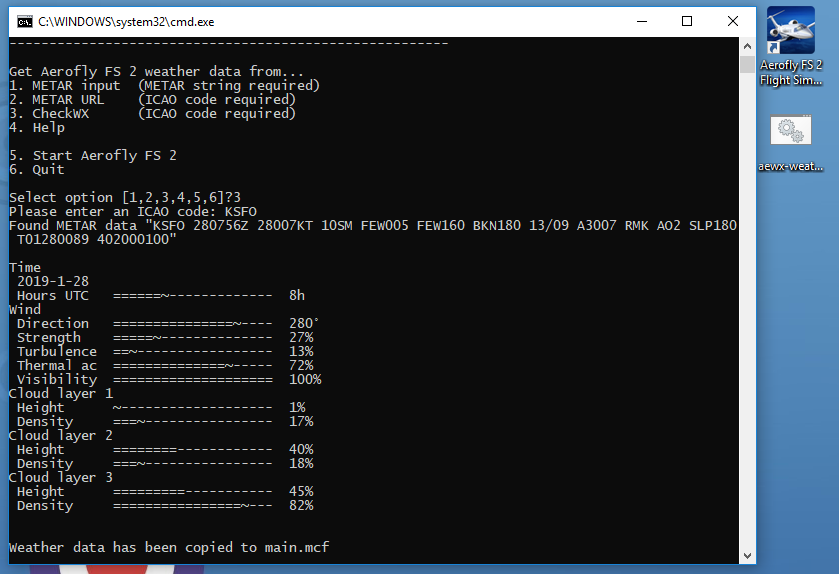
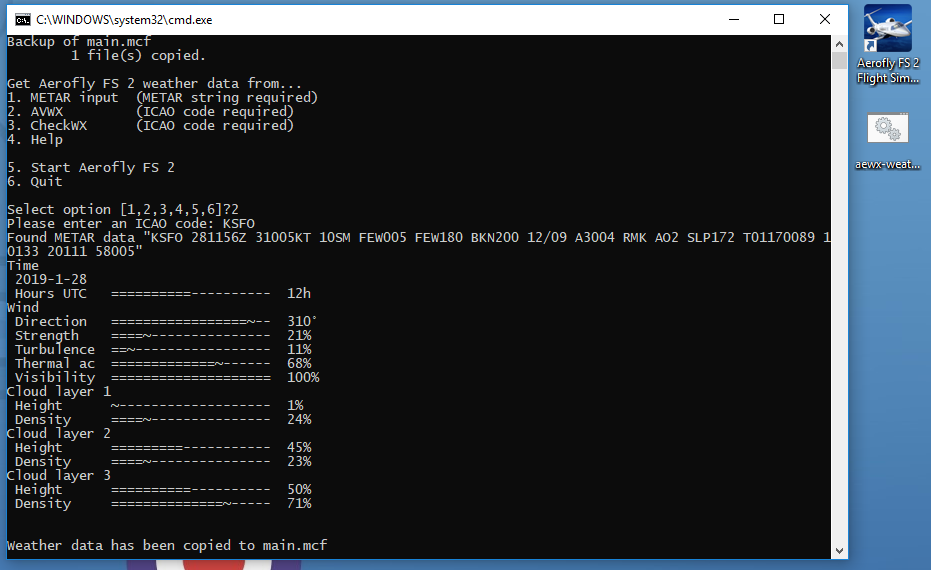
`aewx-metar-fetch` & `aewx-metar-url` CLI commands accept common JSON patterns
...making it compatible with [AVWX](https://avwx.rest/)

Changed region(s): [[0.0, 0.0, 0.9917, 1.0]]

diff --git a/lib/main.js b/lib/main.js
@@ -67,6 +67,23 @@ const main = function(verbose = false) {
   };
 
   /**
+   * Search in JSON response for object keys like 'raw', 'raw_text', or 'Raw-Report' and return their value.
+   * @param   {String} rawData which will be parsed as JSON
+   * @returns {String} Raw METAR string if found
+   */
+  _private.getRawMetarFromJsonObject = function(rawData) {
+    let jsonReply = JSON.parse(rawData);
+    if (jsonReply) {
+      return jsonReply.raw
+        || jsonReply.raw_text
+        || jsonReply['Raw-Report']
+        || ''
+      ;
+    }
+    return '';
+  };
+
+  /**
    * @param   {Object}  aeroflyObject dito
    * @returns {Boolean} true
    */
@@ -198,6 +215,9 @@ const main = function(verbose = false) {
         response.on('end', () => {
           if (verbose) {
             console.log('Got response from URL ' + url + "\n", rawData.trim(), "\n");
+          }
+          if (options.response && options.response === 'json') {
+            rawData = _private.getRawMetarFromJsonObject(rawData);
           }
           return _public.fromString(rawData, destinationFile, options);
         });

diff --git a/README.md b/README.md
@@ -35,8 +35,8 @@ You will need a copy of IPACS' Aerofly FS 2 which has run at least once. This cr
 Click on the desktop file called `aewx-weather.bat` / `aewx-weather.sh` and follow the on-screen instructions. Basically it offers you to:
 
 * Set weather data from a [METAR weather string](docs/metar.md).
-* Fetch a METAR weather string from an URL and set the weather accordingly.
-* Fetch weather data from the [CheckWX API](https://www.checkwx.com/) and set the weather accordingly.
+* Fetch weather data from the [AVWX API](https://avwx.rest/) and set the weather accordingly.
+* Fetch weather data from the [CheckWX API](https://www.checkwx.com/) (API key required) and set the weather accordingly.
 
 The desktop batch file also contains some settings for the tools. If you want to edit the desktop batch file, just right click on it and select "Edit". There is a small [guide on how to work with the command line tools contained in the desktop batch file](docs/command-line.md).
 

diff --git a/CHANGELOG.md b/CHANGELOG.md
@@ -3,6 +3,8 @@ Change log
 
 For detailed information check [Aerofly Weather's releases on Github](https://github.com/fboes/aerofly-weather/releases).
 
+* 🎁 `aewx-metar-fetch` & `aewx-metar-url` CLI commands accept common JSON patterns, making it compatible with [AVWX](https://avwx.rest/)
+
 0.5.3
 -----
 
